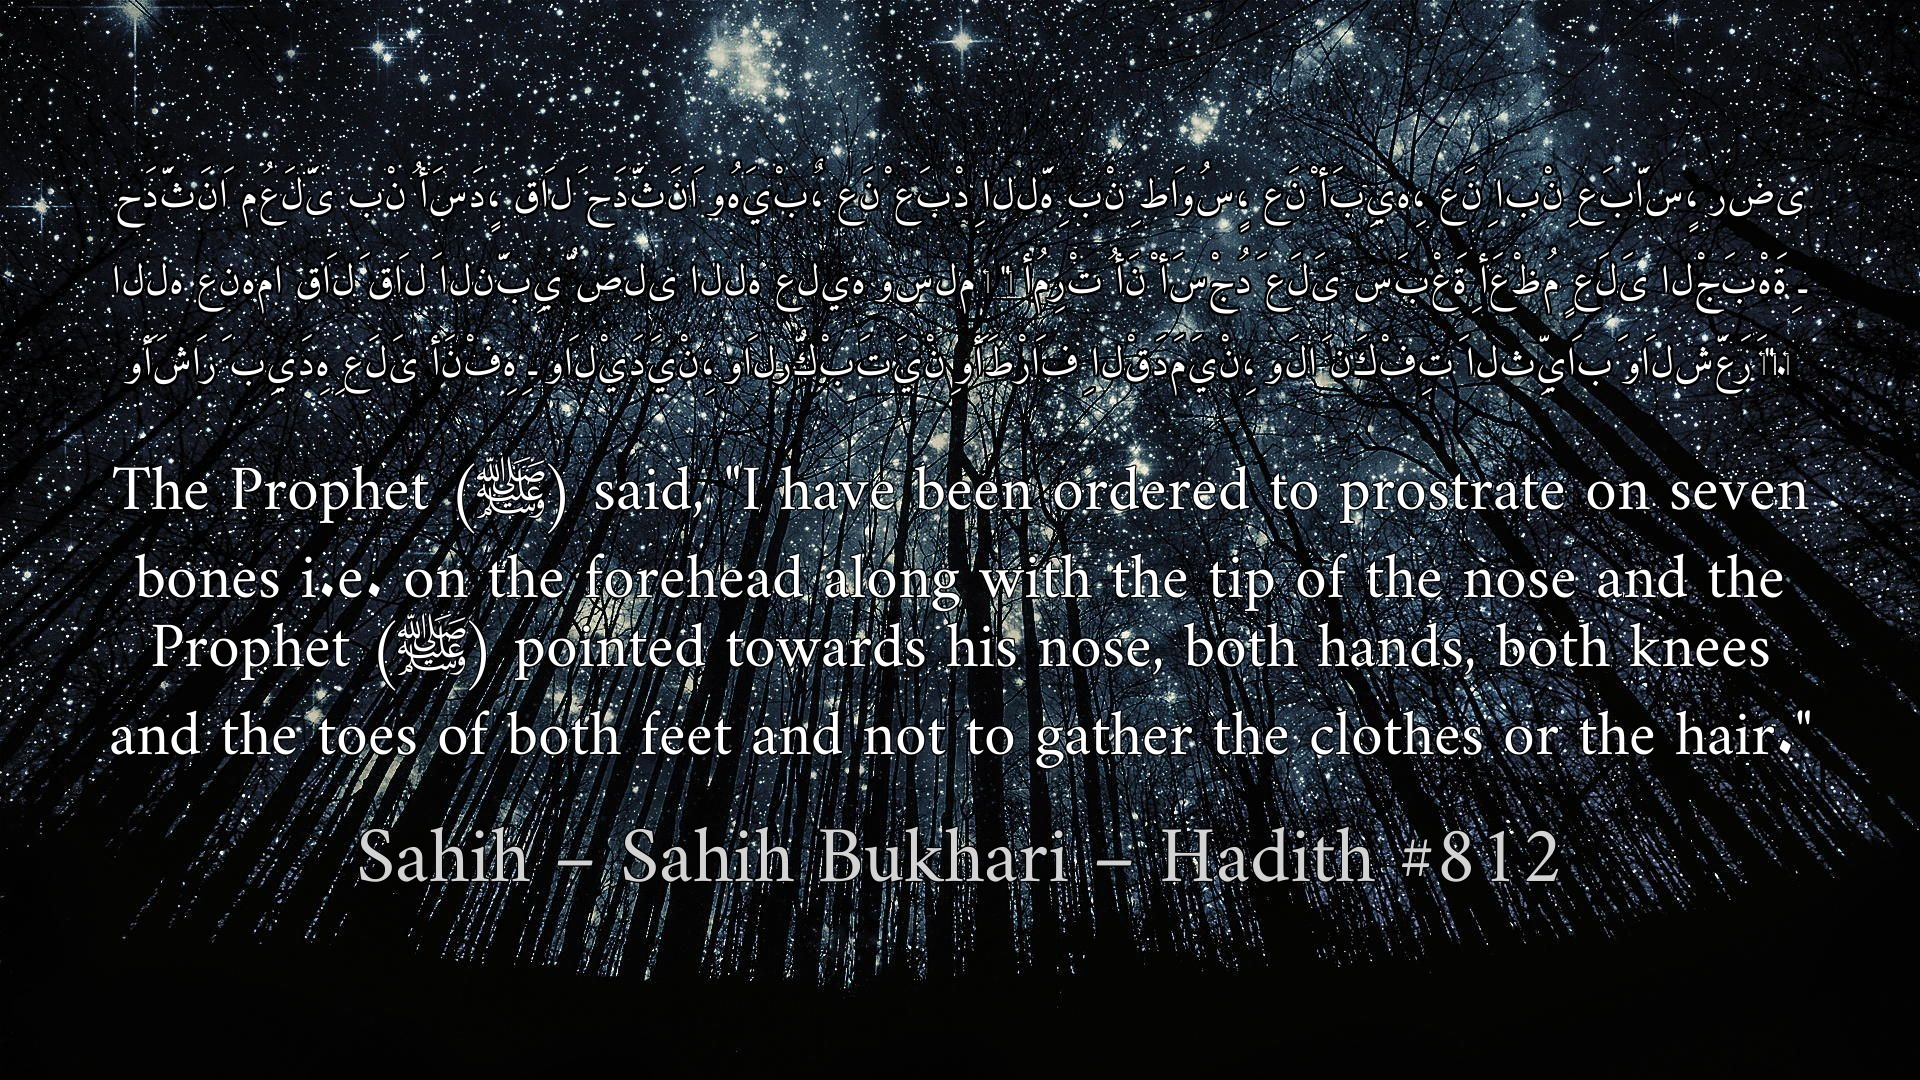
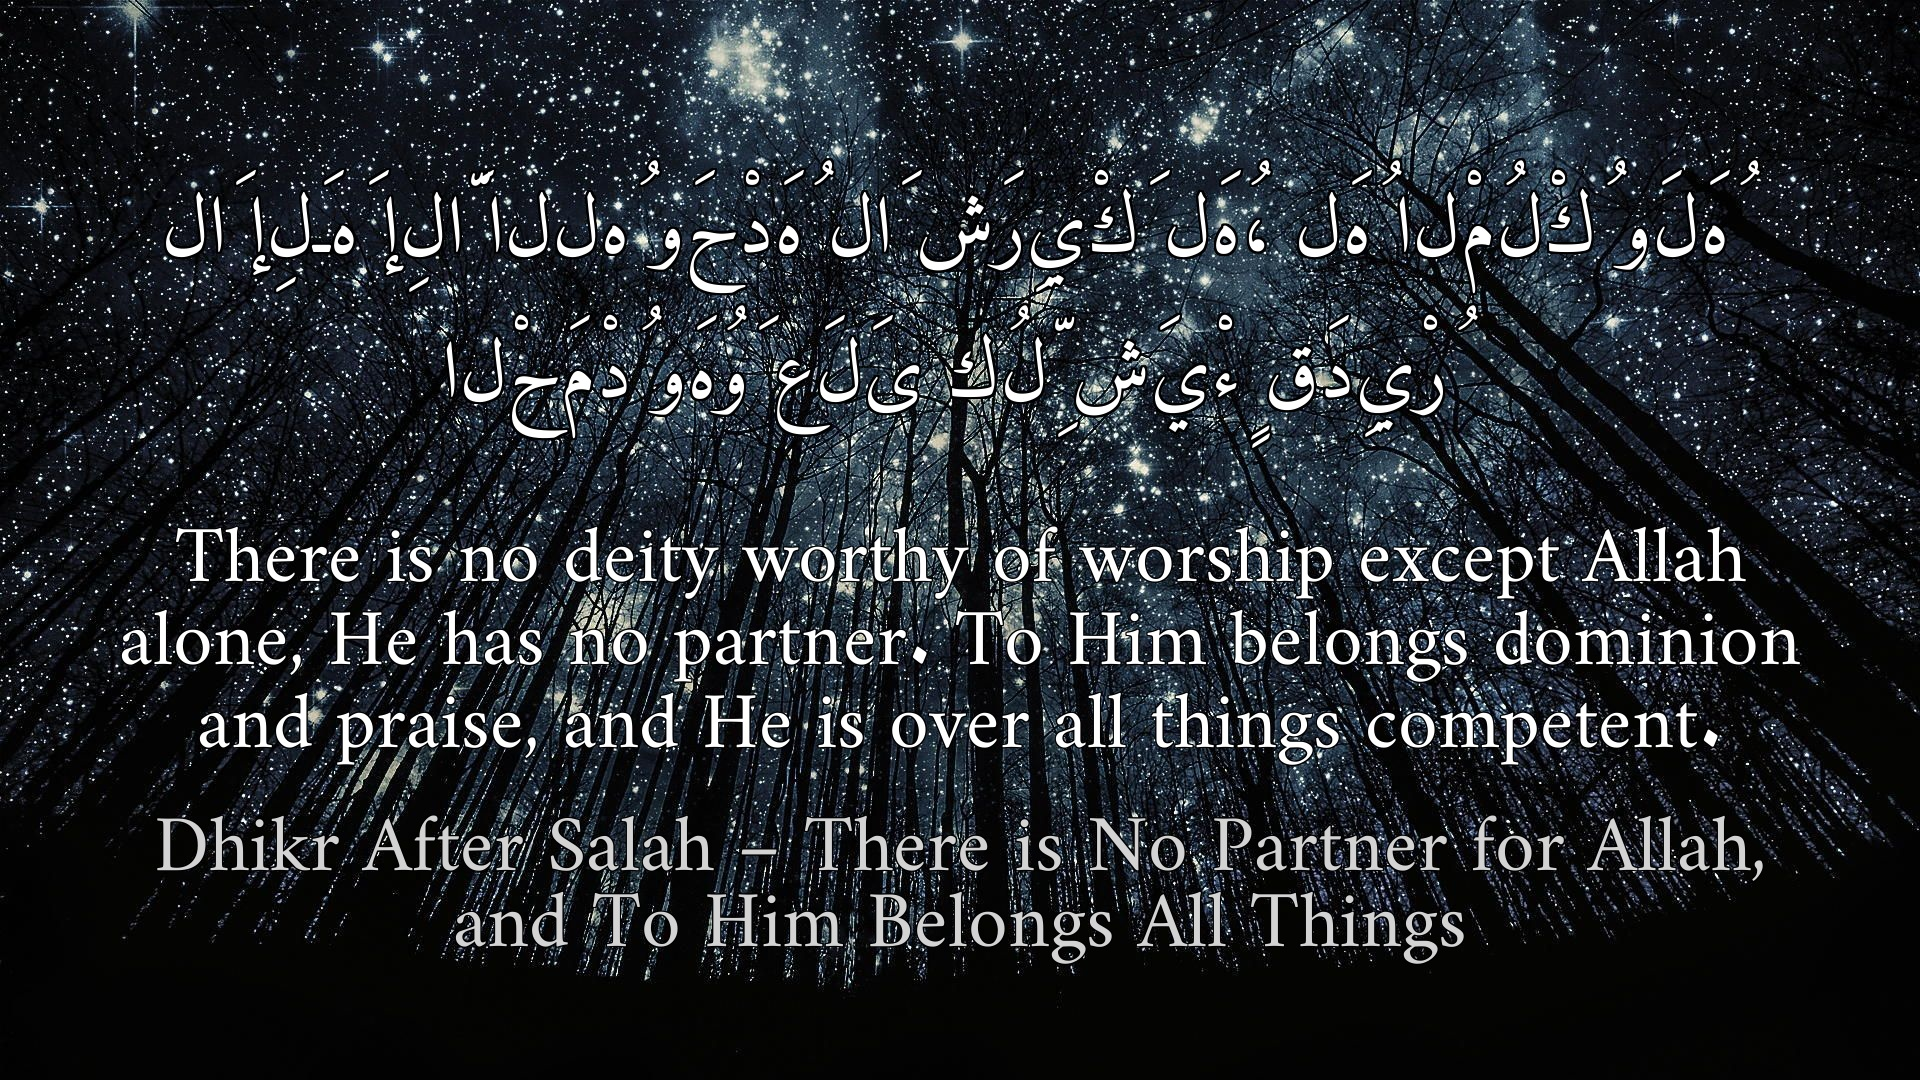
now the bot can post duas as well

Changed region(s): [[0.0625, 0.1528, 0.9375, 0.7028], [0.0625, 0.7639, 0.9062, 0.8861]]

diff --git a/bot.py b/bot.py
@@ -2,6 +2,7 @@ import os
 import requests
 import random
 import textwrap
+import json
 import time
 from PIL import Image, ImageDraw, ImageFont
 from dotenv import load_dotenv
@@ -14,6 +15,46 @@ ACCESS_TOKEN = os.getenv("ACCESS_TOKEN")
 PAGE_ID = os.getenv("PAGE_ID")
 HADITH_API_KEY = os.getenv("HADITH_API_KEY")
 TOTAL_VERSES = 6236
+
+
+
+def get_random_local_dua():
+    base_path = "dua-dhikr/data/dua-dhikr"
+    categories = [
+        "daily-dua",
+        "dhikr-after-salah",
+        "evening-dhikr",
+        "morning-dhikr",
+        "selected-dua"
+    ]
+    
+    # Random category
+    chosen_category = random.choice(categories)
+    file_path = os.path.join(base_path, chosen_category, "en.json")
+    
+    # Load the JSON content
+    try:
+        with open(file_path, "r", encoding="utf-8") as f:
+            duas = json.load(f)
+    except Exception as e:
+        print(f"Error reading {file_path}: {e}")
+        return None, None, None
+    
+    if not duas:
+        print(f"No duas found in {chosen_category}")
+        return None, None, None
+
+    # Pick a random dua
+    dua = random.choice(duas)
+
+    # Extract fields safely
+    arabic = dua.get("arabic", "").strip()
+    english = dua.get("translation", "").strip()
+    title = dua.get("title", "").strip()
+    reference = f"{chosen_category.replace('-', ' ').title()} – {title}"
+    
+    return arabic, english, reference
+
 
 def get_random_verse():
     verse_id = random.randint(1, TOTAL_VERSES)
@@ -272,16 +313,24 @@ def post_to_facebook(img_path, caption):
 
 
 def main():
-    if random.random() < 0.5:
+    choice = random.choice(["verse", "hadith", "dua"])
+    
+    if choice == "verse":
         print("📖 Posting a Quran verse.")
         ar_text, en_text, ref = get_random_verse()
-    else:
+        
+    elif choice == "hadith":
         print("📜 Posting a Hadith from Sahih Bukhari.")
         ar_text, en_text, ref = get_random_hadith()
+        
+    else:
+        print("🤲 Posting a Dua.")
+        ar_text, en_text, ref = get_random_local_dua()
     
     img_path = create_image(ar_text, en_text, ref)
     caption = f"{en_text}\n\n{ref}"
     result = post_to_facebook(img_path, caption)
+
 
 
 if __name__ == "__main__":

diff --git a/webhook.py b/webhook.py
@@ -1,0 +1,26 @@
+from flask import Flask, request
+
+app = Flask(__name__)
+
+VERIFY_TOKEN = "trickstabwostabbystabby"  # You choose this token
+
+@app.route('/webhook', methods=['GET', 'POST'])
+def webhook():
+    if request.method == 'GET':
+        # Webhook verification
+        mode = request.args.get("hub.mode")
+        token = request.args.get("hub.verify_token")
+        challenge = request.args.get("hub.challenge")
+        if mode == "subscribe" and token == VERIFY_TOKEN:
+            return challenge, 200
+        else:
+            return "Verification failed", 403
+
+    elif request.method == 'POST':
+        # Handle messages here
+        data = request.json
+        print("Received message:", data)
+        return "EVENT_RECEIVED", 200
+
+if __name__ == '__main__':
+    app.run(host="0.0.0.0", port=3000)
